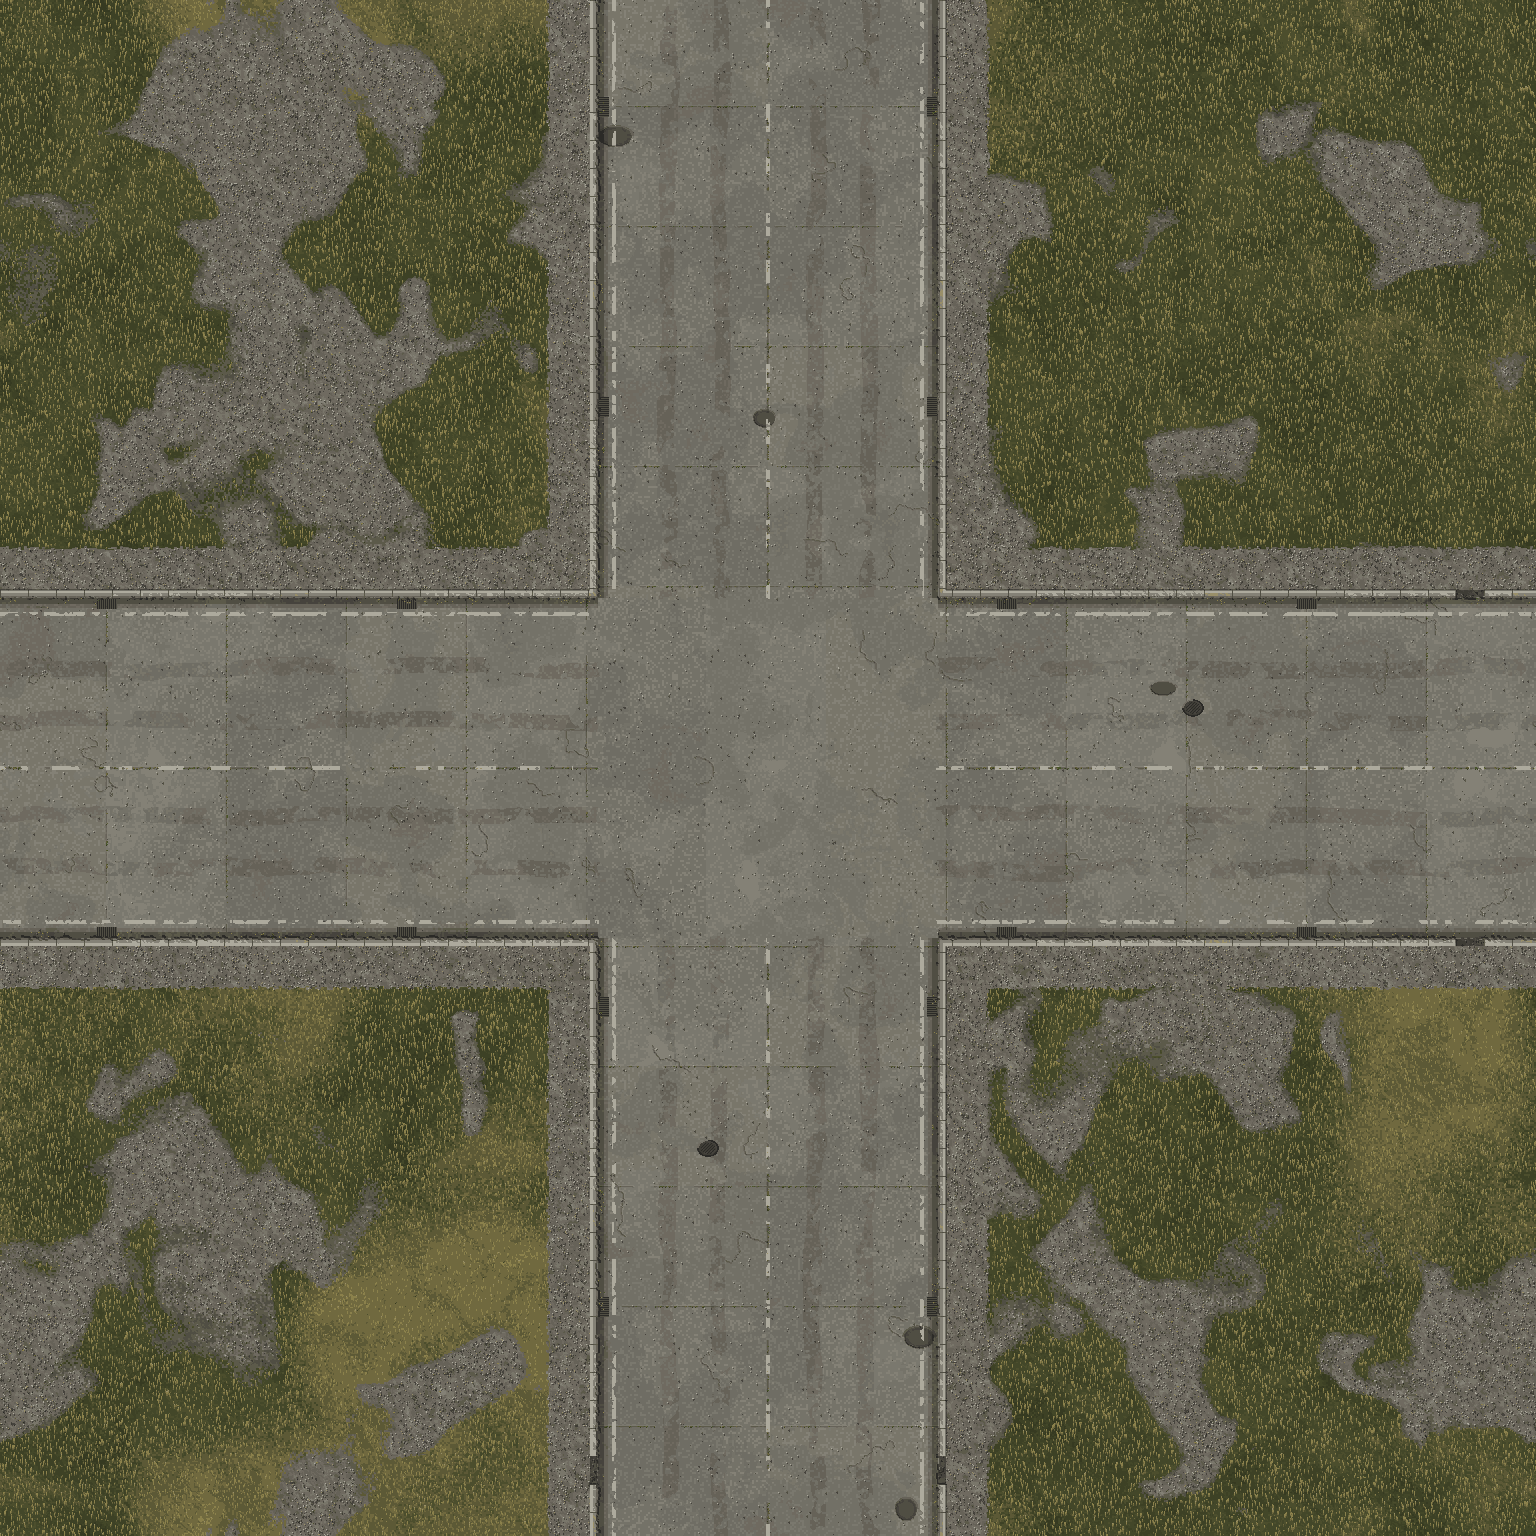
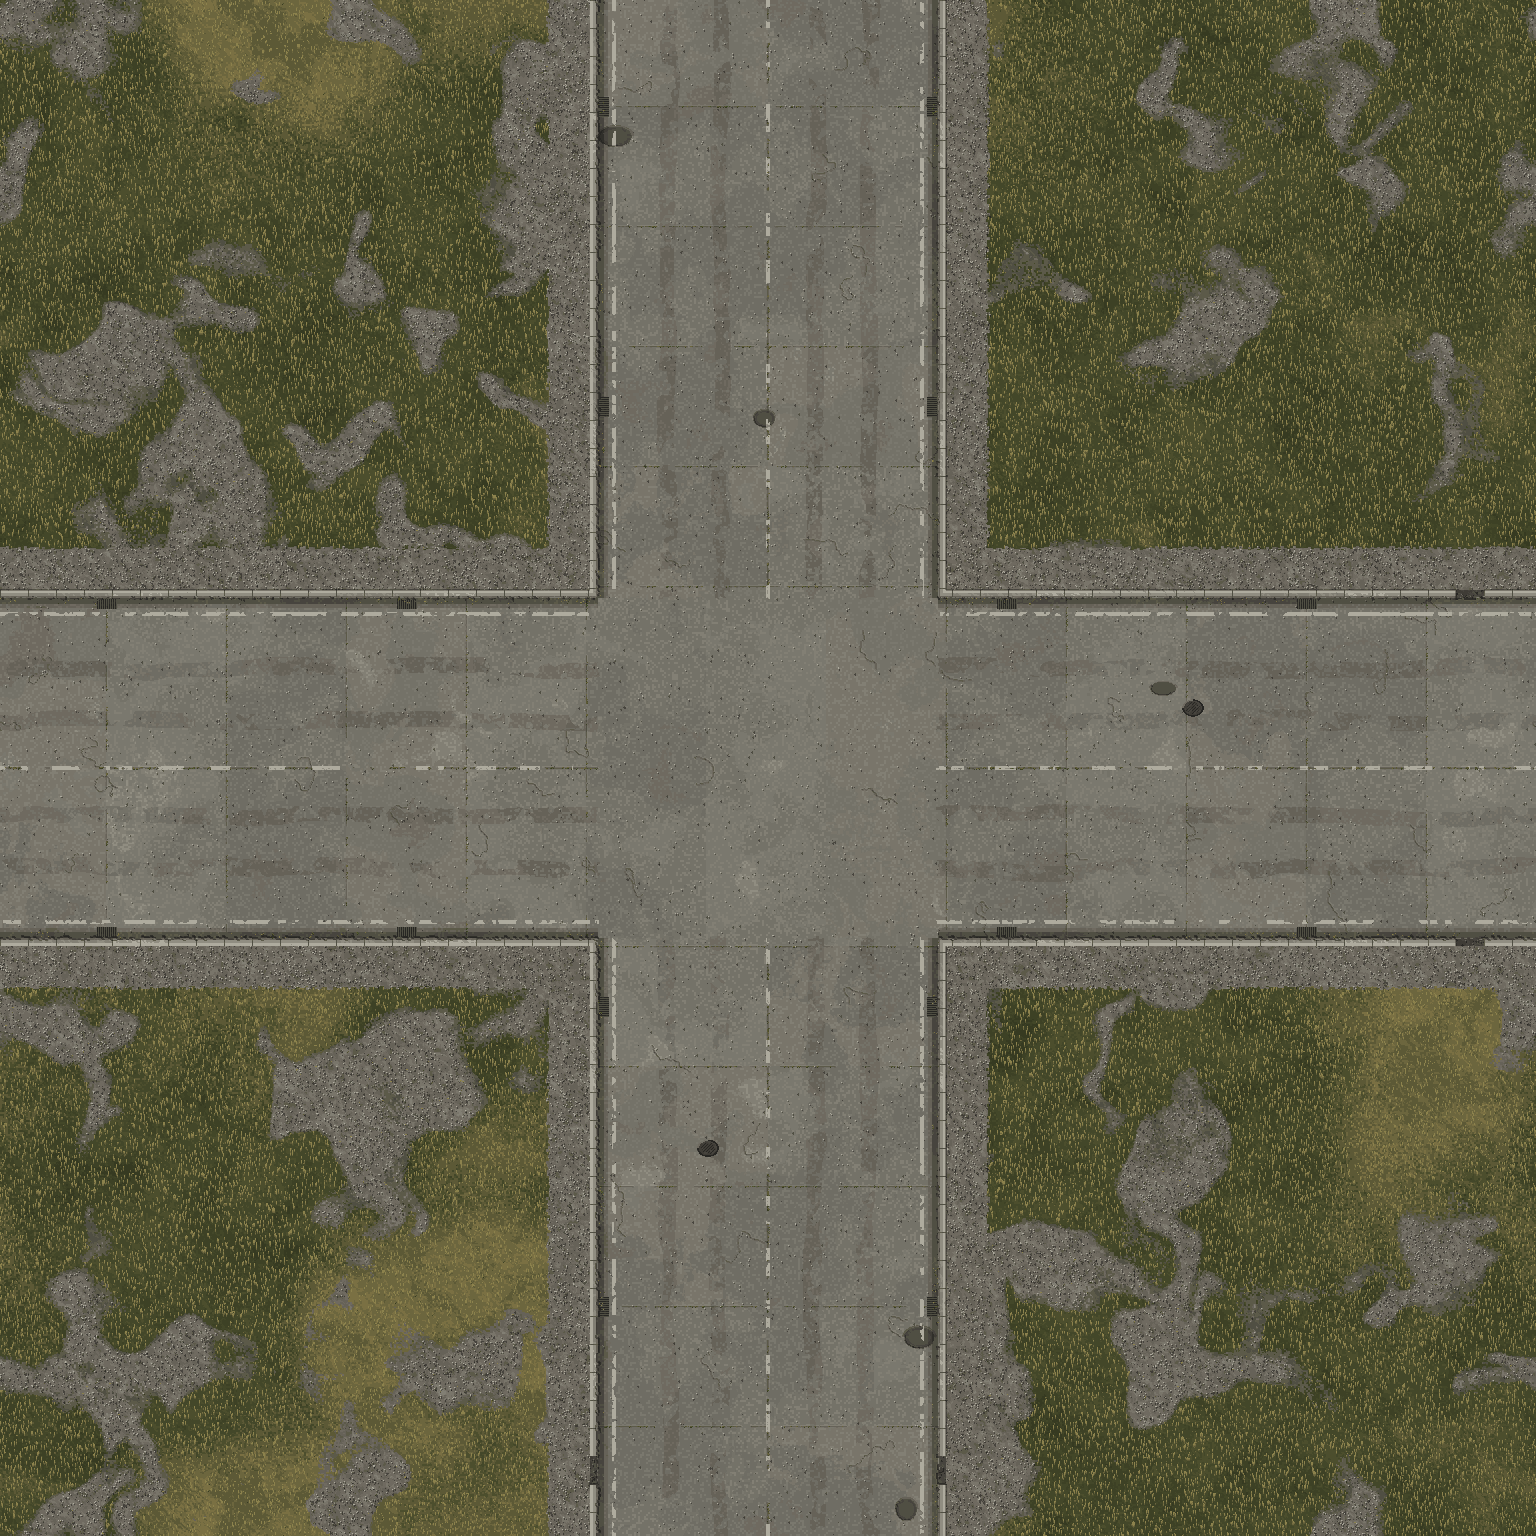
dev29: district sweep - military ground X, softer military moonlight
Day and night sweep of all twelve districts with the new layers. The
military ground's gravel islands left the grass in a large X that repeated
in every military chunk; re-seeded (the other grounds are byte-identical).
Pale concrete parade grounds took the moonlight too hard: 40 % there.

Claude-Session: https://claude.ai/code/session_01Q3d652Ep37MrDZiN13QEse

diff --git a/tools/wa_ground_districts.py b/tools/wa_ground_districts.py
@@ -463,7 +463,9 @@ def military():
     alb = clusters(alb, joint, [(84, 100, 50), (98, 112, 58)], 3104, 0.25)
     alb = speckle(alb, road, 0.012, [(146, 142, 132), (100, 98, 90)], 3105)
     alb, hf = potholes(alb, hf, road & ~inter, 3112, 5)
-    gv = soft(noise(3106, 60, 3), 0.55, 0.65)
+    # gravel islands on the military plots (seed 3106 left the grass between
+    # them in a big X that repeated in every military chunk)
+    gv = soft(noise(3126, 46, 3), 0.55, 0.65)
     gravel_t = np.maximum(walk.astype(float), gv * plot)
     gcol = np.array((116, 110, 98), float)[None, None, :] * tone(3107, 3, 0.82, 1.08, 4, 2)[..., None]
     alb = alb * (1 - gravel_t[..., None]) + gcol * gravel_t[..., None]

diff --git a/README_1380_DEV1_WORLD_HD.md b/README_1380_DEV1_WORLD_HD.md
@@ -498,3 +498,14 @@ QA: `tests/qa_vertical_fence_capture.gd`.
   ровный круг.
 - Порядок слоёв: заражённые (z 9) и игрок (z 20) под туманом (80). Трассеры
   и линии атак (119/120) видны сквозь туман, бой остаётся читаемым.
+
+## Обход районов (dev29)
+
+- Днём и ночью пройдены все 12 районов со всеми новыми слоями.
+- Военная часть: на плацу трава между островками гравия складывалась в
+  крупный «X». Текстура земли одна на весь район, поэтому крест повторялся
+  в каждом военном участке. Островки гравия перегенерированы
+  (`wa_ground_districts.py`, зерно 3126, ячейка 46). Остальные текстуры
+  земли не изменились, сверено побайтно.
+- Военная часть ночью: светлый бетон плаца слишком сильно отражал лунный
+  свет, теперь там только 40% лунного света.
